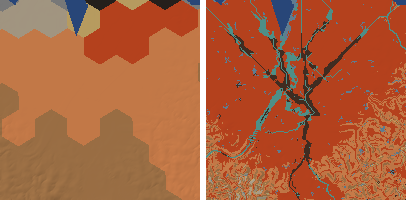
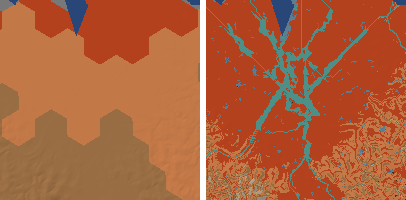
Soils: no peat on active floodplains; cell slope counts the sea at sea level
Peat input x (1 - alluvial share) in soils.organic (worlds and zooms), and
soils.cell_slope (relief with the sea at sea level) for the mineral pass.
Earth (observed climate): agreement 44.3 -> 45.2%, peat 5.7 -> 5.0 Mkm2,
608 -> 489 Pg C. Zoom big-river plains: peat 19-35% -> 0-9%. Resolves the
two inbox drafts.

Claude-Session: https://claude.ai/code/session_015Ygr7jJsDAVZNZ3um5tdCA

diff --git a/planet/soils.py b/planet/soils.py
@@ -342,7 +342,7 @@ def mineral(grid, elev, temp, t_warm, t_cold, p_jul, p_jan, tilt: float = 23.4, 
     What needs the grid (slope, floodplains, loess, salt lakes nearby) is
     worked out here; the rest is per cell (_mineral, shared with the zoom)."""
     from . import landform as LF
-    from .vegetation import floodplain, relief
+    from .vegetation import floodplain
     n = grid.n
     elev = np.asarray(elev, float)
     ice = np.zeros(n) if ice is None else np.asarray(ice, float)
@@ -355,7 +355,7 @@ def mineral(grid, elev, temp, t_warm, t_cold, p_jul, p_jan, tilt: float = 23.4, 
     glac = np.full(n, 9999.0) if glaciated_myr is None else np.asarray(glaciated_myr, float)
     cl = _climate(grid.lat, temp, t_warm, t_cold, p_jul, p_jan, tilt, cloud_jul, cloud_jan)
     mi = cl["mi"]
-    slope = relief(grid, elev) / (grid.spacing * R_KM)  # m per km to the steepest neighbour
+    slope = cell_slope(grid, elev)
 
     # alluvium on the big rivers' floodplains, aggrading coastal plains
     fp = floodplain(grid, elev, np.zeros(n) if flow is None else flow, None, flood_ratio)
@@ -375,6 +375,13 @@ def mineral(grid, elev, temp, t_warm, t_cold, p_jul, p_jan, tilt: float = 23.4, 
     loess_m = np.where(land, loess(grid, src, trap, winds, sea | (ice > 0)), 0.0) if len(winds) else np.zeros(n)
     return _mineral(cl, land, elev, ice, wet_lake, lake_kind, rock, lfm, lfa, glac, temp, t_warm, t_cold, slope,
                     fp / 0.35, aggrading, loess_m, salt_near(grid, lake_kind), memory)
+
+
+def cell_slope(grid, elev) -> np.ndarray:
+    """m per km to the steepest neighbour, the sea counted at sea level: a
+    coastal lowland isn't steep for the drop to the sea floor beside it."""
+    from .vegetation import relief
+    return relief(grid, np.maximum(np.asarray(elev, float), 0.0)) / (grid.spacing * R_KM)
 
 
 def salt_near(grid, lake_kind) -> np.ndarray:
@@ -594,11 +601,13 @@ def organic(m: dict, vg: dict) -> dict:
     burned = np.clip(vg["eq"]["burned"], 0, 1)
     gain = (1 + GRASS_GAIN * grass) * (1 - 0.5 * burned * (1 - grass))
     soc = np.where(land, npp * gain / (K10 * dfac * moist), 0.0)
-    # peat on the flooded share, where the water stays (a surplus of rain)
+    # peat on the flooded share, where the water stays (a surplus of rain), but not on the
+    # active floodplain: each flood's silt buries and aerates the litter there (alluvium, not peat;
+    # peat forms in the backswamps beyond the levees)
     sat = np.clip((m["mi"] - 0.7) / 0.5, 0, 1)
     escape = PEAT_ESCAPE * (1 + 2 * nu[IDX["Sph"]])
     alpha = PEAT_ALPHA * dfac
-    m_star = npp * escape * sat / alpha  # kg C/m2 (Clymo's equilibrium)
+    m_star = npp * escape * sat * (1 - m["alluvial"]) / alpha  # kg C/m2 (Clymo's equilibrium)
     age = np.minimum(m["age_cap"], 1e9)
     peat_c = np.where(land & (fw > 0), m_star * (1 - np.exp(-alpha * age)), 0.0)
     peat_d = peat_c / PEAT_RHO

diff --git a/tools/zoom_soil_check.py b/tools/zoom_soil_check.py
@@ -27,7 +27,6 @@ sys.path.insert(0, str(Path(__file__).resolve().parent.parent))
 import planet  # noqa: E402,F401  (first: its thread caps must precede numpy, planet/parallel.py)
 import numpy as np  # noqa: E402
 from planet import soils as SO  # noqa: E402
-from planet import vegetation as V  # noqa: E402
 from planet import world as W  # noqa: E402
 from planet import zoom as Z  # noqa: E402
 from planet.geo import R_KM  # noqa: E402
@@ -59,7 +58,7 @@ def check(world: dict, lat: float, lon: float, size_km: float, res_km: float, pn
     w_soil = np.asarray(L["soil"], int)
     w_depth = np.asarray(L["soil_depth"], float)
     elev = np.asarray(L["elevation"], float)
-    s_cell = V.relief(g, elev) / (g.spacing * R_KM)
+    s_cell = SO.cell_slope(g, elev)  # (the soils' own: the sea at sea level)
     P_cell = np.asarray(L["precipitation"], float)
     # the pixels' terrain (as zoom_vegetation computes it)
     from planet import zoom_terrain as ZT

diff --git a/docs/overview.md b/docs/overview.md
@@ -680,9 +680,9 @@ A sea cell's shares are taken reef first, then kelp, then seagrass. **Vegetation
 **What it does:** gives every land cell of a world a **soil**: one of **19 named types** (WRB groups, a few merged, named for a player: "black earth", "leached red tropical soil", "ash-grey podzol"; WRB and USDA names in the legend and hover card) and continuous fields. Worlds and regional zooms (per pixel, below); no run cost, no state between worlds. Coal from peat in the run (step 7) is not built yet; the run's vegetation still uses the fixed buckets.
 
 **Two passes around the vegetation** (`world.finish`; one-way, decision 5A):
-1. **Mineral** (`soils.mineral`, geology and climate only): the **parent material** per cell, the exposed stratum's rock (`strata_top`) with a texture, water per metre and base richness, overridden by **alluvium** (big rivers' floodplains, aggrading coastal plains), **loess** (≥ 1 m) and **till** (ground glaciated ≤ 2 Myr ago on soft lowlands; ice scours crystalline rock bare). **Erosion** E from the cell's slope (rising with its square: Montgomery & Brandon) and the run's rain factor, plus wind deflation on bare dry ground (decision 2A): shields ~0.001 mm/yr, hill country ~0.03, steep wet ranges ~1–2. **Soil production** P₀e^(−h/0.5 m) (Heimsath et al. 1997; P₀ ~0.15 mm/yr, faster warm, slower dry) against E gives the depth (≤ 3 m) and the soil's **age** h/E, capped by the last glaciation, the eruption age of lava plains and hotspot islands, and the age of a live arc volcano (its ash keeps renewing the ground). Loose parents (unconsolidated sediment, ash, dune sand, desert sand the wind has winnowed) are rootable ≥ 1 m. The **weathering stage** W = log₁₀(water draining through the soil (Fu's Budyko curve) × e^(0.07(T−15)) × age) orders the humid soils (young brown → brown forest → red clay → leached red tropical) and sets **fertility** (base richness × leaching, + loess, alluvium and ash, − salt). **Permafrost** from the ground temperature: the air's mean + up to 4 °C under the winter snowpack (Smith & Riseborough's nival offset); classes below 0 / −2 / −5 °C. **Water capacity**: available water per metre × depth into the vegetation's two buckets (0–0.3, 0.3–1.5 m), with 40 mm/m of fissured rock below a thin soil (rock moisture), renormalised once so Earth's land means stay at the old fixed 50 / 137.5 mm.
+1. **Mineral** (`soils.mineral`, geology and climate only): the **parent material** per cell, the exposed stratum's rock (`strata_top`) with a texture, water per metre and base richness, overridden by **alluvium** (big rivers' floodplains, aggrading coastal plains), **loess** (≥ 1 m) and **till** (ground glaciated ≤ 2 Myr ago on soft lowlands; ice scours crystalline rock bare). **Erosion** E from the cell's slope (to its steepest neighbour, the sea counted at sea level so a coastal lowland isn't steep for the shelf beside it; rising with its square: Montgomery & Brandon) and the run's rain factor, plus wind deflation on bare dry ground (decision 2A): shields ~0.001 mm/yr, hill country ~0.03, steep wet ranges ~1–2. **Soil production** P₀e^(−h/0.5 m) (Heimsath et al. 1997; P₀ ~0.15 mm/yr, faster warm, slower dry) against E gives the depth (≤ 3 m) and the soil's **age** h/E, capped by the last glaciation, the eruption age of lava plains and hotspot islands, and the age of a live arc volcano (its ash keeps renewing the ground). Loose parents (unconsolidated sediment, ash, dune sand, desert sand the wind has winnowed) are rootable ≥ 1 m. The **weathering stage** W = log₁₀(water draining through the soil (Fu's Budyko curve) × e^(0.07(T−15)) × age) orders the humid soils (young brown → brown forest → red clay → leached red tropical) and sets **fertility** (base richness × leaching, + loess, alluvium and ash, − salt). **Permafrost** from the ground temperature: the air's mean + up to 4 °C under the winter snowpack (Smith & Riseborough's nival offset); classes below 0 / −2 / −5 °C. **Water capacity**: available water per metre × depth into the vegetation's two buckets (0–0.3, 0.3–1.5 m), with 40 mm/m of fissured rock below a thin soil (rock moisture), renormalised once so Earth's land means stay at the old fixed 50 / 137.5 mm.
 2. **Vegetation** reads the buckets, a mild fertility factor on each stand's NPP ((0.85 + 0.25 × fertility) / 0.967, decision 6A; on NPP rather than light-use efficiency, which respiration would amplify) and the permafrost class (for its flooded share, replacing `temp < −2`).
-3. **Organic** (`soils.organic`): **soil carbon** = litter (NPP; grass puts more into the soil, fire burns some) / a decay rate (0.04/yr at 10 °C, Q₁₀ = 2 over the unfrozen months, slower when dry); **peat** on the flooded share where the rain exceeds evaporation, towards Clymo's equilibrium (input escaping decay / α, α = 5·10⁻⁴/yr at 10 °C, growing from the last glaciation); then the **classification**: ordered rules, the first that holds (no soil, peat, frozen, thin, salt, alluvium, gley, ash, sand, gypsum desert, caliche, cracking clay, chestnut, black earth, podzol, limestone, red tropical, red clay, brown forest, young brown). Lime and gypsum need ≥ 20 kyr and a lime source; mollic soils need ≥ 30% grass, carbon ≥ 10.5 (7.5 dry) kg C/m² and bases (not deeply leached, or a cool sub-humid climate); podzols need sand, or acid rock or till under conifers and heath.
+3. **Organic** (`soils.organic`): **soil carbon** = litter (NPP; grass puts more into the soil, fire burns some) / a decay rate (0.04/yr at 10 °C, Q₁₀ = 2 over the unfrozen months, slower when dry); **peat** on the flooded share where the rain exceeds evaporation, but not on the active floodplain (input × (1 − alluvial share): each flood's silt buries the litter, so floodplains are alluvium and peat forms beyond them), towards Clymo's equilibrium (input escaping decay / α, α = 5·10⁻⁴/yr at 10 °C, growing from the last glaciation); then the **classification**: ordered rules, the first that holds (no soil, peat, frozen, thin, salt, alluvium, gley, ash, sand, gypsum desert, caliche, cracking clay, chestnut, black earth, podzol, limestone, red tropical, red clay, brown forest, young brown). Lime and gypsum need ≥ 20 kyr and a lime source; mollic soils need ≥ 30% grass, carbon ≥ 10.5 (7.5 dry) kg C/m² and bases (not deeply leached, or a cool sub-humid climate); podzols need sand, or acid rock or till under conifers and heath.
 
 **Loess** (decision 4C, `soils.loess`): silt from bare dry ground (salt pans and dune fields most; deserts at a quarter the strength of glacier margins, which grind more of it) and from outwash beside today's ice and ground glaciated ≤ 2 Myr ago, carried downwind along the July and January winds one cell per sweep, settling over ~500 km / the ground's plant cover (none on bare ground: it is blown on), for 1 Myr of deposition. PW-037's glacial imprint replaces the glacial source later.
 
@@ -690,7 +690,7 @@ A sea cell's shares are taken reef first, then kelp, then seagrass. **Vegetation
 
 **Outputs:** world layers `soil` (legend `soils`), `soil_depth`, `soil_texture`, `soil_water`, `soil_fertility`, `soil_drainage`, `soil_carbon`, `peat_depth`, `permafrost`, `loess`; the viewer's Soils, soil depth, soil water, fertility, soil carbon, peat, permafrost and loess layers and a Soil row on the hover card ("Black earth (Chernozem / Phaeozem / Mollisol (udoll)) on loess 6 m · 1.4 m deep · fertility 0.8 · holds 210 mm · 18 kg C/m² · well drained"). Cost: ~0.8 s at L7 (mineral pass 0.75 s, most of it the loess sweeps; climate memory 0.35 s; organic 0.03 s), +5.6 MB on an L7 world JSON (62 → 68 MB).
 
-**Earth** (`tools/soil_check.py`, Earth world at L6, GLiM rock, LGM ice for glaciation, no landform record; tuned on the observed climate, the model climate reported only): agreement with SoilGrids 2.0 WRB in 10 groups, area-weighted, **44% observed / 33% model climate** (target ≥ 50%: not reached; the misses are mostly SoilGrids' Cambisols and Regosols, 22% of land, which the model spreads over thin, frozen, desert and brown forest soils, desert-margin soils called caliche, and the model climate's dry steppe belt and wet Amazon); soil carbon 1710 / 1420 Pg C (~1500); peatland 5.7 / 7.5 Mkm², 610 / 575 Pg C (~4 Mkm², ~500 Pg C), boreal and tropical; permafrost region 20.3 / 22.6 Mkm² (~20), southern limit 50–66° N; Ferralsols in the Amazon (66% of its land) and Congo (48%), black earth from Ukraine to Kazakhstan (47%) and on the Great Plains (36%), podzols in boreal Canada (53%) and Scandinavia (31%), Vertisols on the Deccan (48%) but not in Sudan (its parent is unconsolidated sediment to GLiM), ash soils only where GLiM has pyroclastics (Earth has no volcano landforms); loess south of the LGM ice (Mississippi 4–14 m, central Europe to 14 m), in Alaska, Patagonia and the Sahel, but only ~2–4 m on the Loess Plateau (~100 m on Earth). **Vegetation on the soils** (`tools/veg_check.py`): potential-vegetation agreement 62.4 → 60.6% (observed climate), 42.4 → 40.3% (model); land NPP 62.7 → 57.6 / 46.9 → 42.7 Pg C/yr (Earth ~56): thin and sandy soils hold less where water limits growth, and the fertility factor favours young soils over old tropical ones (left so, as nearer Earth's ~56, rather than renormalised past decision 6A's range).
+**Earth** (`tools/soil_check.py`, Earth world at L6, GLiM rock, LGM ice for glaciation, no landform record; tuned on the observed climate, the model climate reported only): agreement with SoilGrids 2.0 WRB in 10 groups, area-weighted, **45% observed / 34% model climate** (target ≥ 50%: not reached; the misses are mostly SoilGrids' Cambisols and Regosols, 22% of land, which the model spreads over thin, frozen, desert and brown forest soils, desert-margin soils called caliche, and the model climate's dry steppe belt and wet Amazon); soil carbon 1730 / 1430 Pg C (~1500); peatland 5.0 / 6.4 Mkm², 490 / 455 Pg C (~4 Mkm², ~500 Pg C), boreal and tropical; permafrost region 20.3 / 22.6 Mkm² (~20), southern limit 50–66° N; Ferralsols in the Amazon (66% of its land) and Congo (48%), black earth from Ukraine to Kazakhstan (47%) and on the Great Plains (36%), podzols in boreal Canada (53%) and Scandinavia (31%), Vertisols on the Deccan (48%) but not in Sudan (its parent is unconsolidated sediment to GLiM), ash soils only where GLiM has pyroclastics (Earth has no volcano landforms); loess south of the LGM ice (Mississippi 4–14 m, central Europe to 14 m), in Alaska, Patagonia and the Sahel, but only ~2–4 m on the Loess Plateau (~100 m on Earth). **Vegetation on the soils** (`tools/veg_check.py`): potential-vegetation agreement 62.4 → 60.6% (observed climate), 42.4 → 40.3% (model); land NPP 62.7 → 57.6 / 46.9 → 42.7 Pg C/yr (Earth ~56): thin and sandy soils hold less where water limits growth, and the fertility factor favours young soils over old tropical ones (left so, as nearer Earth's ~56, rather than renormalised past decision 6A's range).
 
 ![Earth soils](review/soils/earth_groups.png)
 *`tools/soil_check.py --png` on the observed climate: the model's groups (top), SoilGrids' (middle), the model's 19 types (bottom).*
@@ -698,10 +698,10 @@ A sea cell's shares are taken reef first, then kelp, then seagrass. **Vegetation
 ![World soils](review/soils/world_d99b85.png) ![World soils](review/soils/world_a4b6ef.png) ![World soils](review/soils/world_f67bcf.png)
 *Soil types on three L7 worlds from keyframes (showcase run a1d3b9 at 1000 Myr, health seeds 11 at 700 Myr and 21 at 600 Myr; the worlds were not kept): red tropical soils in the warm wet cores, frozen soils, peat and podzols towards the poles, sand and caliche in the dry interiors, thin soils on mountains.*
 
-**Zoom pixels** (step 6, PW-331; `soils.zoom_mineral`, called from `zoom_vegetation`): the same two passes on each bare land pixel of a regional zoom, around the zoom's vegetation, which reads the pixel's buckets and fertility factor (replacing its old fixed buckets thinned on slopes and deepened in hollows). The pixel brings its own **slope** (converted to the cells' measure, m per km to the steepest neighbour: tan × 1000 / 10 at 2 km, finer pixels steeper by (2 km / res)^0.6; measured on seven 2 km zooms of two L7 worlds, a pixel's RMS slope is 4–22× its cell's), **rock** (the zoom's `surface_rock`, with its volcanoes' rock and reefs' limestone), **alluvium** (the vegetation's big-river floodplain share / 0.5, or the share of a smaller river's strip), **colluvium** (up to 1 m in the wettest hollows, from the TWI), **glacier forefields** (within 4 km of a zoom glacier: deglaciated 5 kyr ago) and lapse- and slope-corrected **climate**; from its coarse cell, the landform class and age, the last glaciation, salt lakes nearby and the **loess** (interpolated; it slides off slopes over 2× the steep threshold). Its thinnest soil is 6 cm (thin stony, not bare rock). The world's climate memory is left out (it moves W by ~0.01). Nothing pulls the pixels back to their cell, so mountains split into thin stony slopes, frozen summits and brown or red valley soils, a big river's plain into alluvium and peat, and a flat cell's catena into older soils on flats and younger on slopes. On uniform cells (gentle, inland) 34–90% of the pixels fall in the cell's soil group (median ~60%; `tools/zoom_soil_check.py`, the ten groups of `soil_check`, six 400 km zooms), on steep cells 50–74%. Where they differ, the zoom's ground differs from the cell's measure: a cell beside a hill or the sea reads steep (its slope is the drop to the steepest neighbour, sea floor included: a draft for the world), and on one dissected plateau (cells 6–8 m/km) the zoom's terrain is smoother than that (pixel slopes ~4× the cell's, not ~10×), so its pixels carry older red clay where the cells have young brown soil. Cost: 0.03–0.04 s for a 400 km zoom at 2 km, 0.3 s of a 500 × 500 px zoom (12 s in all at 2 km, 10 s at 0.5 km, L7 keyframe world of health seed 21 at 600 Myr); +10 layers, 3 MB per 500 × 500 px zoom.
+**Zoom pixels** (step 6, PW-331; `soils.zoom_mineral`, called from `zoom_vegetation`): the same two passes on each bare land pixel of a regional zoom, around the zoom's vegetation, which reads the pixel's buckets and fertility factor (replacing its old fixed buckets thinned on slopes and deepened in hollows). The pixel brings its own **slope** (converted to the cells' measure, m per km to the steepest neighbour: tan × 1000 / 10 at 2 km, finer pixels steeper by (2 km / res)^0.6; measured on seven 2 km zooms of two L7 worlds, a pixel's RMS slope is 4–22× its cell's), **rock** (the zoom's `surface_rock`, with its volcanoes' rock and reefs' limestone), **alluvium** (the vegetation's big-river floodplain share / 0.5, or the share of a smaller river's strip), **colluvium** (up to 1 m in the wettest hollows, from the TWI), **glacier forefields** (within 4 km of a zoom glacier: deglaciated 5 kyr ago) and lapse- and slope-corrected **climate**; from its coarse cell, the landform class and age, the last glaciation, salt lakes nearby and the **loess** (interpolated; it slides off slopes over 2× the steep threshold). Its thinnest soil is 6 cm (thin stony, not bare rock). The world's climate memory is left out (it moves W by ~0.01). Nothing pulls the pixels back to their cell, so mountains split into thin stony slopes, frozen summits and brown or red valley soils, a big river's plain into alluvium, and a flat cell's catena into older soils on flats and younger on slopes. On uniform cells (gentle, inland) 34–90% of the pixels fall in the cell's soil group (median ~60%; `tools/zoom_soil_check.py`, the ten groups of `soil_check`, six 400 km zooms), on steep cells 50–74%. Where they differ, the zoom's ground differs from the cell's measure: a cell beside a hill reads steep (its slope is the drop to the steepest neighbour), and on one dissected plateau (cells 6–8 m/km) the zoom's terrain is smoother than that (pixel slopes ~4× the cell's, not ~10×), so its pixels carry older red clay where the cells have young brown soil. Cost: 0.03–0.04 s for a 400 km zoom at 2 km, 0.3 s of a 500 × 500 px zoom (12 s in all at 2 km, 10 s at 0.5 km, L7 keyframe world of health seed 21 at 600 Myr); +10 layers, 3 MB per 500 × 500 px zoom.
 
 ![Zoom soils](review/soils/zoom_mountain.png) ![Zoom soils](review/soils/zoom_plain.png) ![Zoom soils](review/soils/zoom_river.png)
-*400 km zooms at 2 km of an L7 world (showcase run a1d3b9 at 1000 Myr, from the keyframe; not kept), each the coarse cells' soils (left) beside the pixels' (right) (`tools/zoom_soil_check.py --png`): a wet mountain range where the cells are all thin stony soil and the pixels keep it on the slopes, frozen soil on the summits and red clay and brown forest soils in the valleys; a black-earth plain whose pixels mix black earth with red clay on its flattest, oldest ground and peat in hollows; a tropical river lowland of leached red soils with alluvium and peat swamps along the rivers.*
+*400 km zooms at 2 km of an L7 world (showcase run a1d3b9 at 1000 Myr, from the keyframe; not kept), each the coarse cells' soils (left) beside the pixels' (right) (`tools/zoom_soil_check.py --png`): a wet mountain range where the cells are all thin stony soil and the pixels keep it on the slopes, frozen soil on the summits and red clay and brown forest soils in the valleys; a black-earth plain whose pixels mix black earth with red clay on its flattest, oldest ground and peat in hollows; a tropical river lowland of leached red soils with alluvium along the rivers.*
 
 **Known limits:** at the cell scale soils are a mean (hollows and ridges average out; the zoom separates them); the soil age is the residence time of a ≤ 3 m soil, not of a deep weathering profile, so relic laterites hardly survive a climate change; Earth lacks dune fields and young-volcano landforms; loess is crude (PW-037).
 
